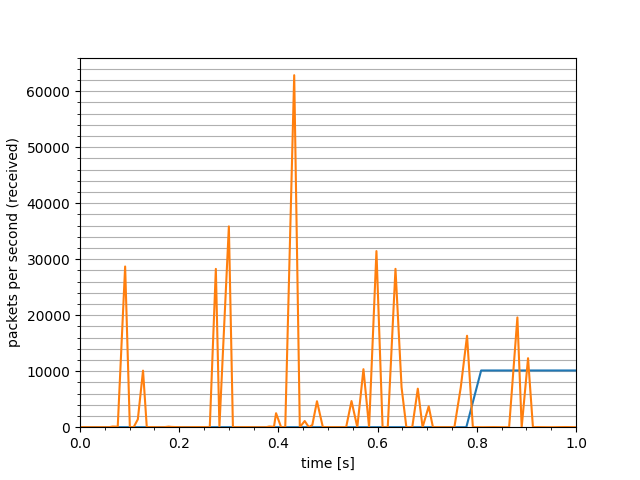
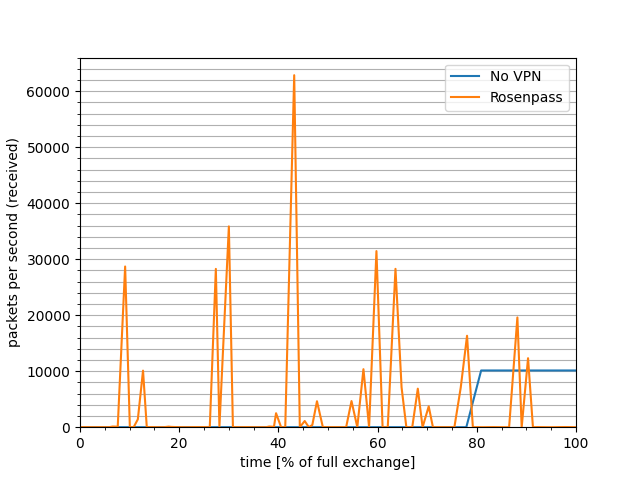
correct the labels on the graphs

diff --git a/DataOutput.py b/DataOutput.py
@@ -66,10 +66,13 @@ class DataOutput:
             return
         
         files = []
+        names = []
         
         for i in range(1, number_of_files + 1):
             file_path = prompt(f"File {i} path: ", completer=PathCompleter())
             files.append(file_path)
+            name = prompt("Enter a name: ")
+            names.append(name)
             
         self.__reset_lists()
         max_bytes_recv = 0
@@ -103,9 +106,9 @@ class DataOutput:
                         max_bytes_sent = cur_b_sent
             
             no_data = True
-            for f in files:
-                self.file = open(f)
-                file_name = os.path.basename(f)
+            for f in range(len(files)):
+                self.file = open(files[f])
+                file_name = os.path.basename(files[f])
                 self.data = json.load(self.file)
             
                 if self.lists["time"] == []:
@@ -129,7 +132,7 @@ class DataOutput:
                     Path(file_path).mkdir(parents=True, exist_ok=True)
             
                     plt.grid(True, 'both', 'y')
-                    plt.xlabel("time [s]")
+                    plt.xlabel(f"time [% of full exchange]")
                     plt.minorticks_on()
                     
                     if l == "bytes_recv":
@@ -144,10 +147,10 @@ class DataOutput:
                                 values[v] = values[v] / 1024
                             tmp_max = tmp_max / 1024
                         
-                        plt.xlim([0, max(timestamps)])
+                        plt.xlim([0, 100])
                         plt.ylim([0, tmp_max + 0.05 * tmp_max])
                         
-                        plt.plot(timestamps, values)
+                        plt.plot(timestamps, values, label=names[f])
                     elif l == "bytes_sent":
                         values = self.lists[l]
                         
@@ -160,33 +163,33 @@ class DataOutput:
                                 values[v] = values[v] / 1024
                             tmp_max = tmp_max / 1024
                                 
-                        plt.xlim([0, max(timestamps)])
+                        plt.xlim([0, 100])
                         plt.ylim([0, tmp_max + 0.05 * tmp_max])
                         
-                        plt.plot(timestamps, values)
+                        plt.plot(timestamps, values, label=names[f])
                     elif l == "cpu_percent" or l == "ram_percent":
                         if l == "cpu_percent":
                             plt.ylabel("CPU usage [%]")
                         else:
                             plt.ylabel("RAM usage [%]")
                         
-                        plt.xlim([0, max(timestamps)])
+                        plt.xlim([0, 100])
                         plt.ylim([0, 100])
                         plt.yticks(ticks=range(0, 101, 10))
                         
-                        plt.plot(timestamps, self.lists[l])
+                        plt.plot(timestamps, self.lists[l], label=names[f])
                     elif l == "pps_recv" or l == "pps_sent":
                         if l == "pps_recv":
                             plt.ylabel("packets per second (received)")
                         else:
                             plt.ylabel("packets per second (sent)")
                             
-                        plt.xlim([0, max(timestamps)])
+                        plt.xlim([0, 100])
                         plt.ylim([0, max(self.lists[l]) + 0.05 * max(self.lists[l])])
                         
-                        plt.plot(timestamps, self.lists[l])
+                        plt.plot(timestamps, self.lists[l], label=names[f])
                     else:
-                        plt.plot(timestamps, self.lists[l])
+                        plt.plot(timestamps, self.lists[l], label=names[f])
                                    
                 # reset data lists
                 self.__reset_lists()
@@ -194,6 +197,7 @@ class DataOutput:
                 if no_data == True:
                     print("No data. Not printing the graph.")
             
+            plt.legend()
             plt.savefig(os.path.join(file_path, l))
             plt.clf()
             print(f"File saved as {short_path}/{l}.png.")
@@ -305,7 +309,7 @@ class DataOutput:
         end_time = datetime.fromisoformat(max_time)
         for i in range(1, len(self.lists["time"])):
             cur_time = datetime.fromisoformat(self.lists["time"][i])
-            timestamps.append((cur_time - initial_time).total_seconds() / (end_time - initial_time).total_seconds())
+            timestamps.append(((cur_time - initial_time).total_seconds() / (end_time - initial_time).total_seconds()) * 100)
             
         return timestamps
  
